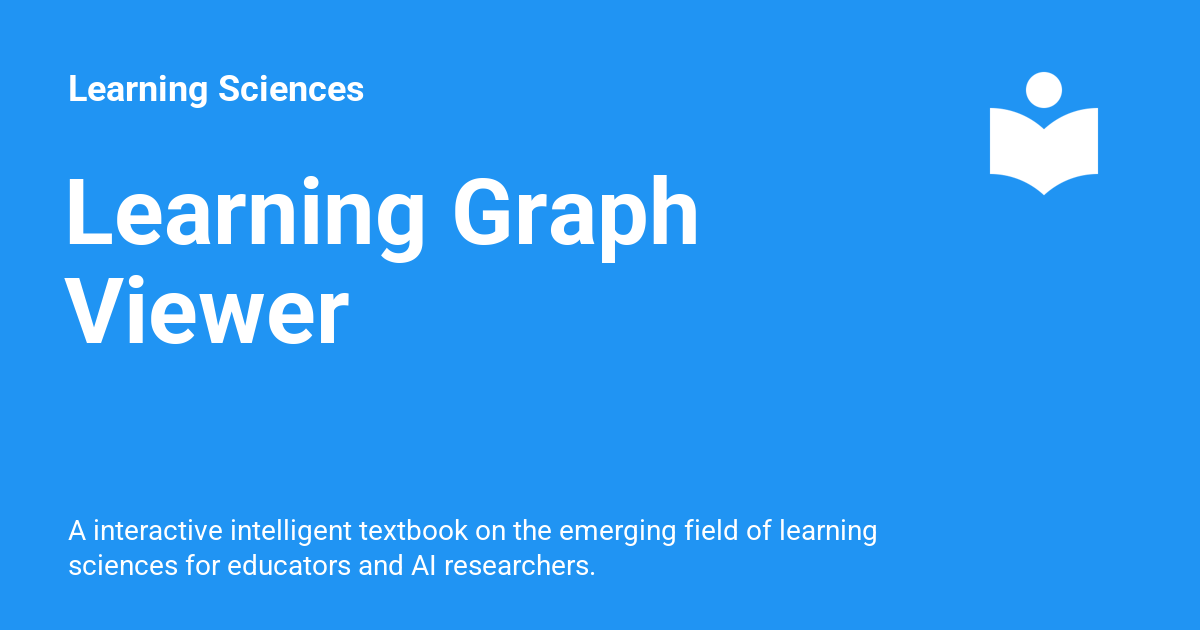
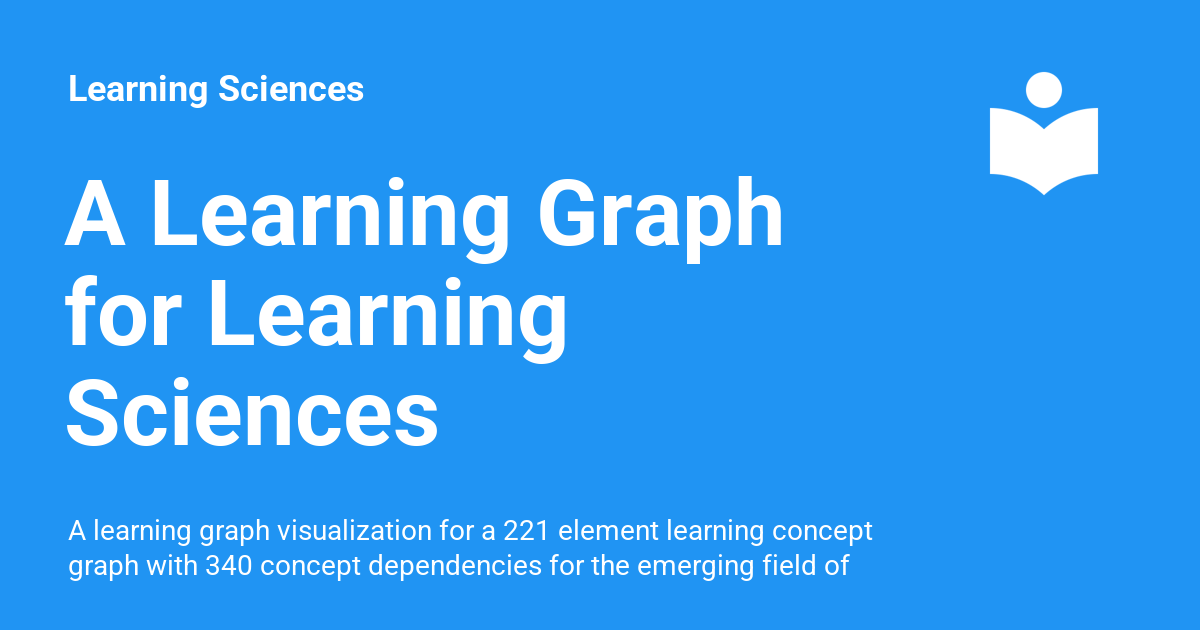
Deployed 20314cb with MkDocs version: 1.6.1

Changed region(s): [[0.0308, 0.2714, 0.6783, 0.573], [0.0617, 0.8143, 0.74, 0.9349], [0.0308, 0.6032, 0.37, 0.7238]]

diff --git a/sims/graph-viewer/index.html b/sims/graph-viewer/index.html
@@ -3,7 +3,7 @@
       <meta charset="utf-8">
       <meta name="viewport" content="width=device-width,initial-scale=1">
       
-        <meta name="description" content="A interactive intelligent textbook on the emerging field of learning sciences for educators and AI researchers.">
+        <meta name="description" content="A learning graph visualization for a 221 element learning concept graph with 340 concept dependencies for the emerging field of Learning Sciences">
       
       
         <meta name="author" content="Dan McCreary">
@@ -21,7 +21,7 @@
     
     
       
-        <title>Learning Graph Viewer - Learning Sciences</title>
+        <title>A Learning Graph for Learning Sciences - Learning Sciences</title>
       
     
     
@@ -60,9 +60,9 @@
       
         <meta property="og:type" content="website">
       
-        <meta property="og:title" content="Learning Graph Viewer - Learning Sciences">
+        <meta property="og:title" content="A Learning Graph for Learning Sciences - Learning Sciences">
       
-        <meta property="og:description" content="A interactive intelligent textbook on the emerging field of learning sciences for educators and AI researchers.">
+        <meta property="og:description" content="A learning graph visualization for a 221 element learning concept graph with 340 concept dependencies for the emerging field of Learning Sciences">
       
         <meta property="og:image" content="https://dmccreary.github.io/learning-sciences/assets/images/social/sims/graph-viewer/index.png">
       
@@ -76,9 +76,9 @@
       
         <meta name="twitter:card" content="summary_large_image">
       
-        <meta name="twitter:title" content="Learning Graph Viewer - Learning Sciences">
+        <meta name="twitter:title" content="A Learning Graph for Learning Sciences - Learning Sciences">
       
-        <meta name="twitter:description" content="A interactive intelligent textbook on the emerging field of learning sciences for educators and AI researchers.">
+        <meta name="twitter:description" content="A learning graph visualization for a 221 element learning concept graph with 340 concept dependencies for the emerging field of Learning Sciences">
       
         <meta name="twitter:image" content="https://dmccreary.github.io/learning-sciences/assets/images/social/sims/graph-viewer/index.png">
       
@@ -147,7 +147,7 @@
         <div class="md-header__topic" data-md-component="header-topic">
           <span class="md-ellipsis">
             
-              Learning Graph Viewer
+              A Learning Graph for Learning Sciences
             
           </span>
         </div>
